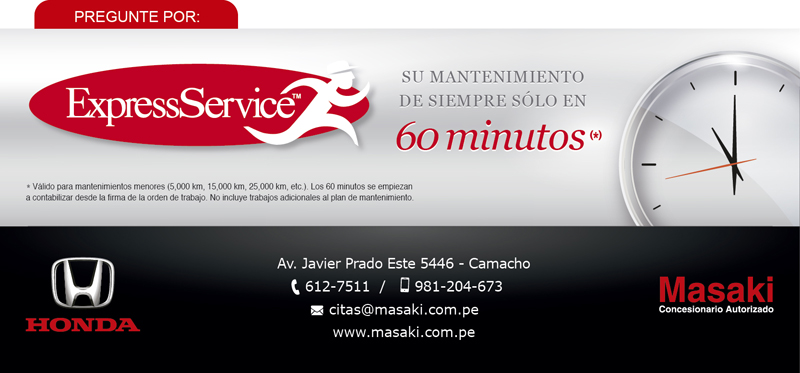
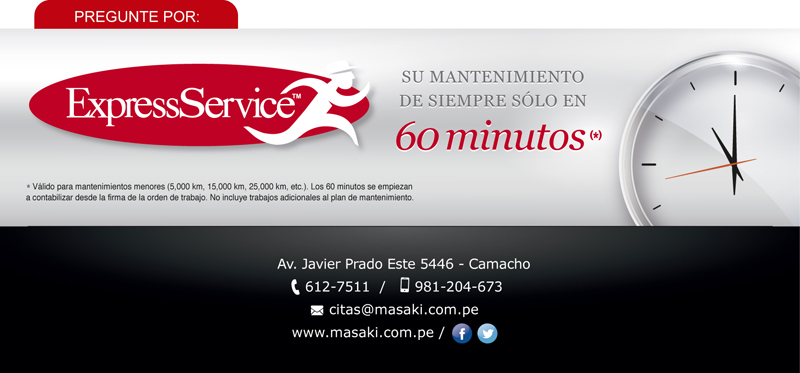
2016-04-29

diff --git a/resources/views/emails/message.blade.php b/resources/views/emails/message.blade.php
@@ -62,17 +62,10 @@
           <tr style="font-family: 'Helvetica Neue', Helvetica, Arial, sans-serif; box-sizing: border-box; font-size: 14px; margin: 0;">
             <td class="content-wrap" style="position: relative; font-family: 'Helvetica Neue', Helvetica, Arial, sans-serif; box-sizing: border-box; font-size: 14px; vertical-align: top; margin: 0; padding: 20px;" valign="top">
               <table width="100%" cellpadding="0" cellspacing="0" style="font-family: 'Helvetica Neue', Helvetica, Arial, sans-serif; box-sizing: border-box; font-size: 14px; margin: 0;">
-
+                
                 <tr style="font-family: 'Helvetica Neue', Helvetica, Arial, sans-serif; box-sizing: border-box; font-size: 14px; margin: 0;">
-                  <td class="content-block" style="font-family: 'Helvetica Neue', Helvetica, Arial, sans-serif; box-sizing: border-box; font-size: 14px; vertical-align: top; margin: 0; padding: 0;" valign="top">
-                    <table>
-                      <tr style="font-family: 'Helvetica Neue', Helvetica, Arial, sans-serif; box-sizing: border-box; font-size: 14px; margin: 0; padding: 0 0 60px;">
-                        <td style="width: 80%;"></td>
-                        <td style="text-align: right; margin: 0; padding: 0; vertical-align: top; width: 20%;">
-                          <img src="{{ $message->embed(public_path('img/LOGO_MASAKI_min.png')) }}" alt="" style="max-width: 100px; margin: 0; padding: 0;">
-                        </td>
-                      </tr>
-                    </table>
+                  <td class="alert alert-warning" style="font-family: 'Helvetica Neue', Helvetica, Arial, sans-serif; box-sizing: border-box; font-size: 16px; vertical-align: top; color: #fff; font-weight: 500; text-align: center; border-radius: 3px 3px 0 0; margin: 0; padding: 0 0 20px;" align="center" valign="top">
+                    <img src="{{ $message->embed(public_path('img/logo_honda_masaki.jpg')) }}" alt="" />
                   </td>
                 </tr>
                 <tr style="font-family: 'Helvetica Neue', Helvetica, Arial, sans-serif; box-sizing: border-box; font-size: 14px; margin: 0; padding: 0 0 40px;">
@@ -83,8 +76,8 @@
                 </tr>
                 <tr style="font-family: 'Helvetica Neue', Helvetica, Arial, sans-serif; box-sizing: border-box; font-size: 14px; margin: 0;">
                   <td class="content-block" style="font-family: 'Helvetica Neue', Helvetica, Arial, sans-serif; box-sizing: border-box; font-size: 14px; vertical-align: top; margin: 0; padding: 0 0 60px;" valign="top">
-                  <p>De acuerdo a nuestro historial de servicios y pensando en el cuidado y mantenimiento de su vehículo HONDA <strong>{{$vehicle->Modelo}}</strong> placa <strong>{{$vehicle->Placa}}</strong> MASAKI le recuerda que está próximo a cumplir <strong>{{$vehicle->nextkm}} Km</strong>.</p><br /><br />
-                  <p>Lo invitamos a reservar una cita llamando al número 612-7511 / 981-204673 o escribiendo a <a href="mailto:citas@masaki.com.pe">citas@masaki.com.pe</a>.</p>
+                  <p>De acuerdo a nuestro historial de servicios y pensando en el cuidado y mantenimiento de su vehículo HONDA <strong>{{$vehicle->Modelo}}</strong> placa <strong>{{$vehicle->Placa}}</strong> MASAKI le recuerda que su unidad está próxima a cumplir <strong>{{ number_format($vehicle->nextkm) }} Km</strong>.</p><br /><br />
+                  <p>Lo invitamos a reservar una cita llamando al 612-7511 y/o 981-204-673 o escribiendo a <a href="mailto:citas@masaki.com.pe">citas@masaki.com.pe</a>.</p>
                   @if($checks)
                     @if($checks['check_warning'] and count($checks['check_warning']) > 0)
                       <br>De acuerdo a su última visita, consultar con su Asesor sobre las siguientes observaciones:<br>
@@ -99,7 +92,9 @@
                       @endforeach
                     @endif
                   @endif
-
+                  <br />
+                  <p>Atentamente,</p>
+                  <p>Gerencia de Post Venta</p>
                   </td>
                 </tr>
                 <tr style="font-family: 'Helvetica Neue', Helvetica, Arial, sans-serif; box-sizing: border-box; font-size: 14px; margin: 0;">

diff --git a/resources/views/autorepair/service_reminder/send_email.blade.php b/resources/views/autorepair/service_reminder/send_email.blade.php
@@ -18,29 +18,6 @@
                 {!! Form::text('subject', 'Recordatorio para su proximo servicio', ['class' => 'form-control' ]) !!}
               </div>
               <div class="form-group">
-                {!! Form::label('body', 'Mensaje') !!}
-                <textarea name="body" class="form-control ckeditor">
-                  <p>Estimado Cliente:</p>
-                  <p><h2><strong> {{$vehicle->NombreRaz}} </strong></h2></p>
-                  <p>De acuerdo a nuestro historial de servicios y pensando en el cuidado y mantenimiento de su vehículo HONDA <strong>{{$vehicle->Modelo}}</strong> placa <strong>{{$vehicle->Placa}}</strong> MASAKI le recuerda que está próximo a cumplir <strong>{{$vehicle->nextkm}} Km</strong>.</p>
-                  <p>Lo invitamos a reservar una cita haciendo click en <a href="http://www.masaki.com.pe/online/"><strong>CITAS</strong></a> o llamando al número 612-7511</p>
-                  @if($checks)
-                    @if($checks['check_warning'] and count($checks['check_warning']) > 0)
-                      <br>De acuerdo a su última visita, consultar con su Asesor sobre las siguientes observaciones:<br>
-                      @foreach($checks['check_warning'] as $item)
-                      {{$item->checkitem_group->name}} / {{$item->name}} <br>
-                      @endforeach
-                    @endif
-                    @if($checks['check_danger'] and count($checks['check_danger']) > 0)
-                      <br>Como un tema de Urgencia, consultar con su Asesor sobre las siguientes observaciones:<br>
-                      @foreach($checks['check_danger'] as $item)
-                      {{$item->checkitem_group->name}} / {{$item->name}} <br>
-                      @endforeach
-                    @endif
-                  @endif
-                </textarea>
-              </div>
-              <div class="form-group">
                 {!! Form::submit('Enviar', ['class' => 'btn btn-success ' ] ) !!}
               </div>
             {!! Form::close() !!}

diff --git a/app/Http/Controllers/AutoRepair/ServiceChecklistsController.php b/app/Http/Controllers/AutoRepair/ServiceChecklistsController.php
@@ -197,8 +197,8 @@ class ServiceChecklistsController extends Controller
         \Mail::send('emails.message', $data, function($message) use ($request)
         {
             $message->to($request->email, $request->name);
-            $message->cc('noel.logan@gmail.com', $name = null);
-            $message->attach(public_path('img/LOGO_MASAKI_min.png'));
+            //$message->cc('noel.logan@gmail.com', $name = null);
+            $message->attach(public_path('img/logo_honda_masaki.jpg'));
             $message->attach(public_path('img/2email.jpg'));
             $message->subject($request->subject);
             $message->from(env('CONTACT_MAIL'), env('CONTACT_NAME'));
@@ -243,7 +243,8 @@ class ServiceChecklistsController extends Controller
             ->update(array('status' => $data['status']));
 
         if ($data['status']=='SI') {
-            return redirect('/autorepair/appointments/create')->with('placa2', $plate);
+            return redirect($last_page);
+            //return redirect('/autorepair/appointments/create')->with('placa2', $plate);
         }
         return redirect($last_page);
         

diff --git a/app/Modules/Autorepair/SchedulingRepo.php b/app/Modules/Autorepair/SchedulingRepo.php
@@ -12,7 +12,7 @@ class SchedulingRepo extends BaseRepo{
 	{
 		//return Scheduling::lists('time','time')->toArray();
 		$schedulings = Scheduling::all();
-		$data="<option value=''>Seleccionar</option>";
+		$data = "<option value=''>Seleccionar</option>";
 		foreach ($schedulings as $key => $scheduling) {
 			$data .= "<option value=".$scheduling->time.">".$scheduling->time."</option>";
 		}
